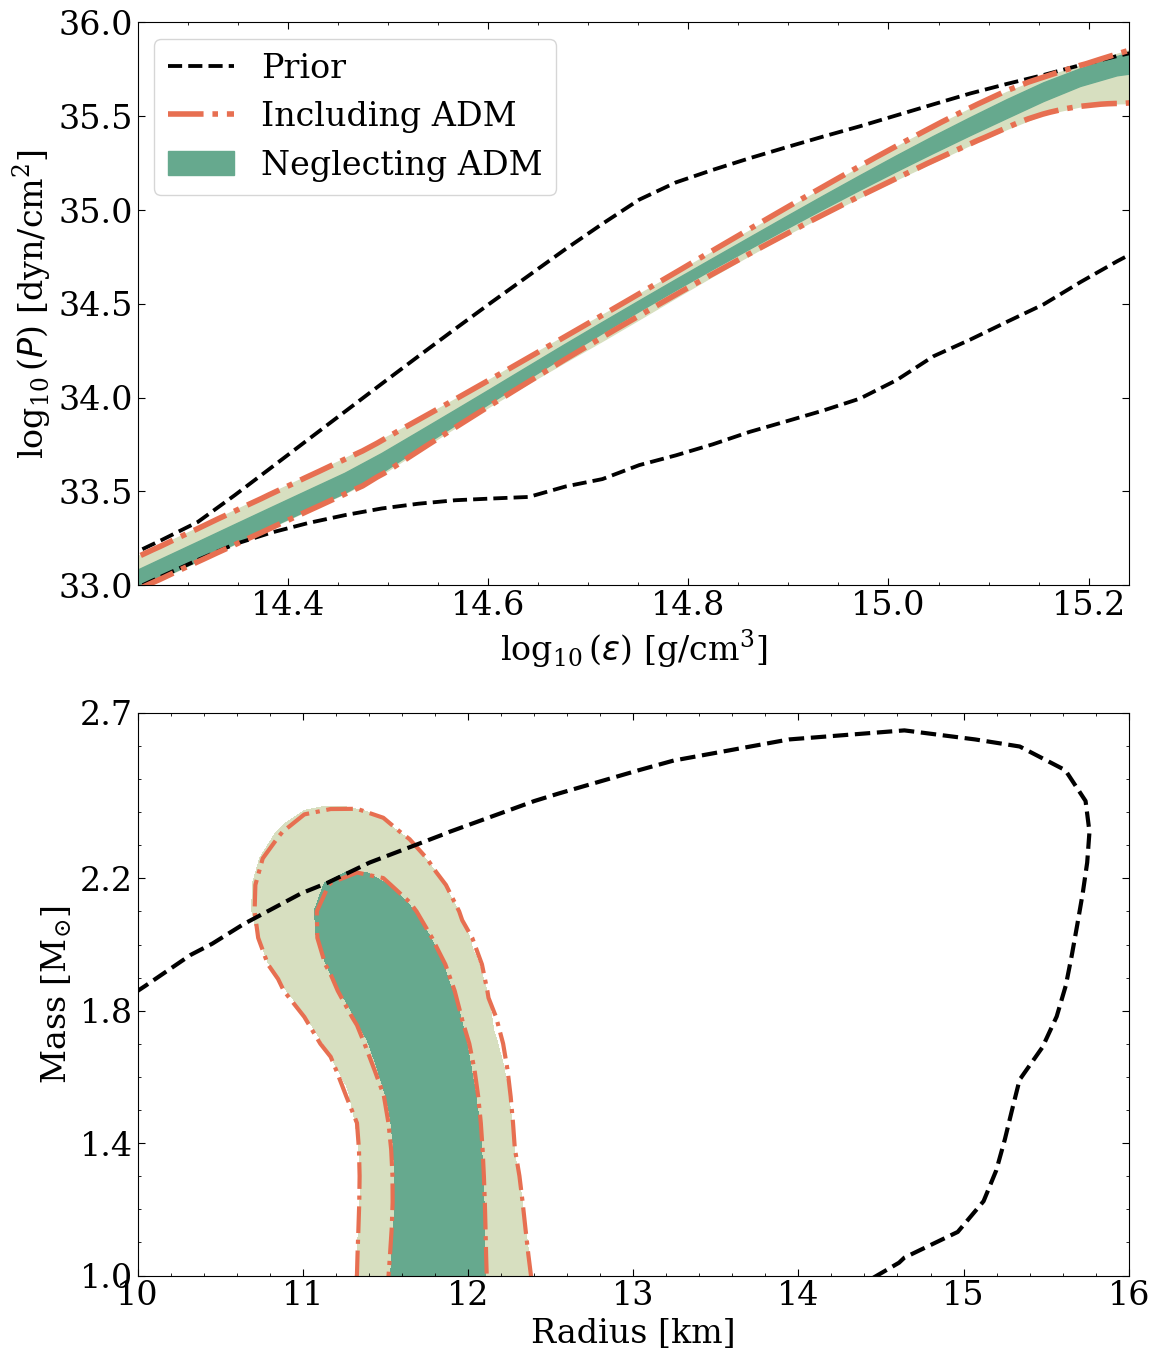
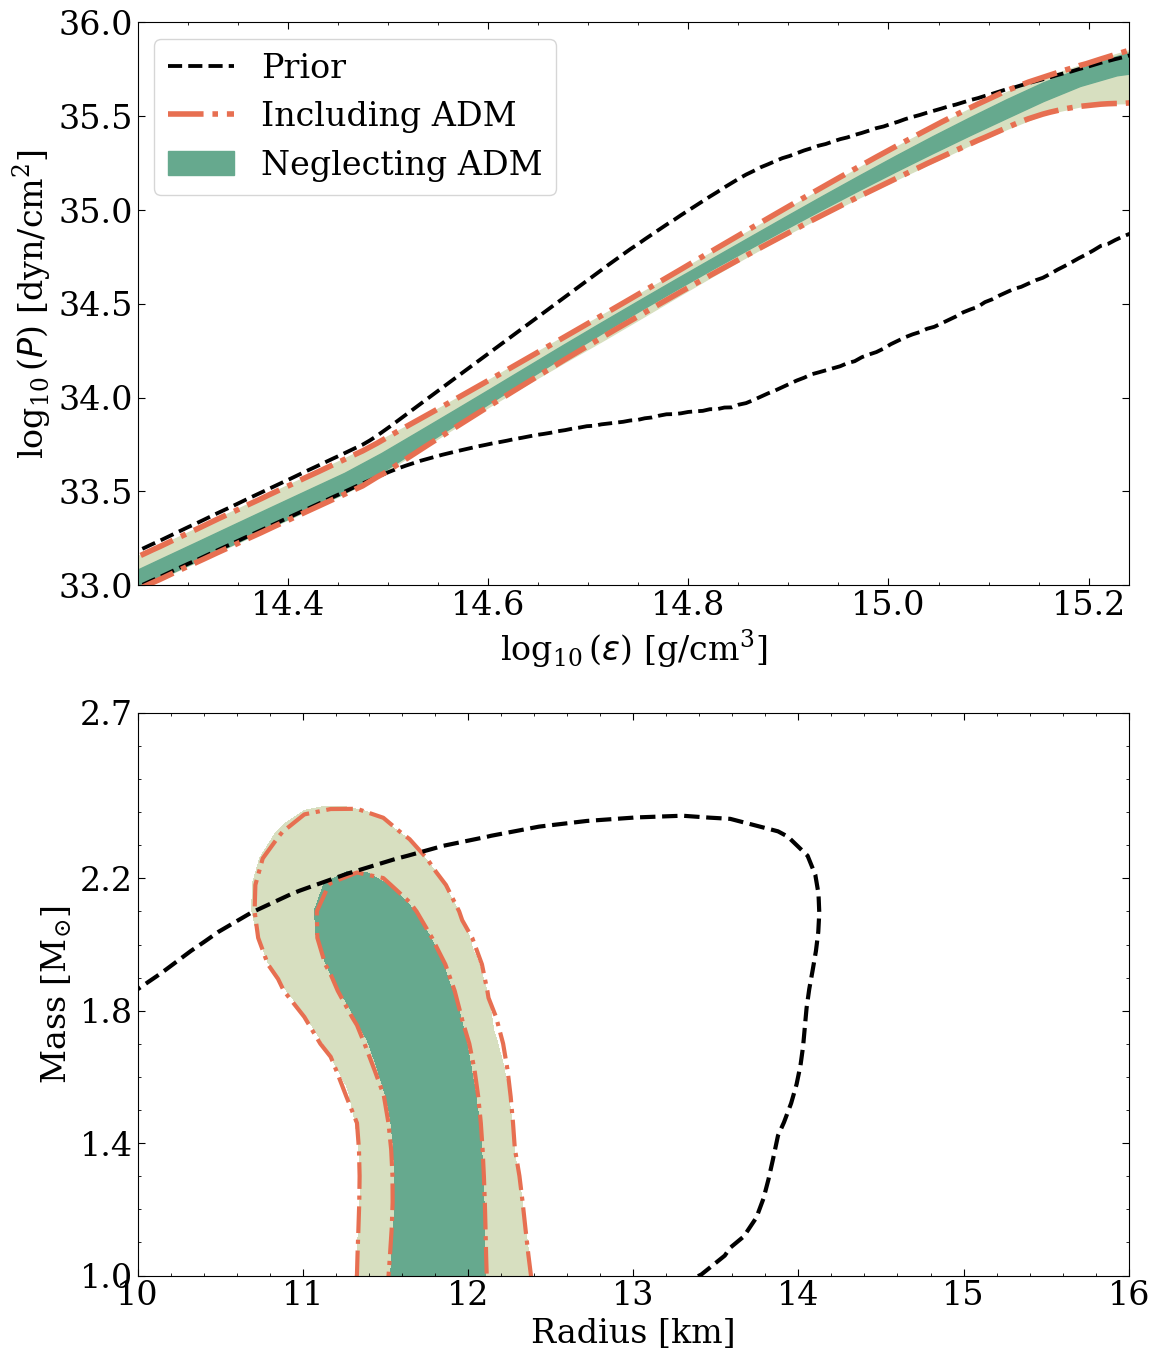
Minor fixes to Figs 4-6. Still need to make the width calc.

diff --git a/plot_routines/Figure_4.py b/plot_routines/Figure_4.py
@@ -104,7 +104,7 @@ def calc_bands(x, y):
     return miny, maxy
 
 
-def get_quantiles(array, quantiles=[0.05, 0.5, 0.95]): #0.05,0.5,0.95 0.32,0.5,0.68 
+def get_quantiles(array, quantiles=[0.025, 0.5, 0.975]): #0.025,0.5,0.975 0.16,0.5,0.84 
         contours = np.nanquantile(array, quantiles) #changed to nanquantile to inorder to ignore the nans that may appear
         low = contours[0]
         median = contours[1]
@@ -117,7 +117,7 @@ def get_quantiles(array, quantiles=[0.05, 0.5, 0.95]): #0.05,0.5,0.95 0.32,0.5,0
 # In[7]:
 
 
-energydensities = np.logspace(14.2, 16, 50)
+energydensities = np.logspace(14.2, 16, 250)
 if args.repro:
     pressures_prior =  np.load(prior_directory + f'{run_nameprior}' + 'pressures.npy')
     maxpres_adm_NI = np.load(including_adm_directory + f'{run_nameposterior_incladm_real}'+'maxpres.npy')
@@ -155,8 +155,8 @@ def mass_radius_posterior_plot(root_name_ADM,root_name_Baryonic,root_prior = Non
                 alpha=1., colors = '#E76F51',linestyles = '-.',linewidths = 3.)
     
 
-    ly_68adm = get_quantiles(MR_ADM[:,0], quantile = [0.32,0.5,0.64])
-    ly_95adm = get_quantiles(MR_ADM[:,0], quantile = [0.05,0.5,0.95])
+    ly_68adm = get_quantiles(MR_ADM[:,0], quantiles = [0.16,0.5,0.84])
+    ly_95adm = get_quantiles(MR_ADM[:,0], quantiles = [0.025,0.5,0.975])
     print('68% Max mass Including ADM: ',ly_68adm[2]) #upper bound only
     print('95% Max mass Including ADM: ',ly_95adm[2])
 
@@ -171,8 +171,8 @@ def mass_radius_posterior_plot(root_name_ADM,root_name_Baryonic,root_prior = Non
 
     MR_prpr_B= np.loadtxt(root_name_Baryonic + 'MR_prpr.txt')
     
-    ly_68 = get_quantiles(MR_prpr_B[:,0], quantile = [0.32,0.5,0.64])
-    ly_95 = get_quantiles(MR_prpr_B[:,0], quantile = [0.05,0.5,0.95])
+    ly_68 = get_quantiles(MR_prpr_B[:,0], quantiles = [0.16,0.5,0.84])
+    ly_95 = get_quantiles(MR_prpr_B[:,0], quantiles = [0.025,0.5,0.975])
     print('68% Max mass Neglecting ADM: ',ly_68[2])
     print('95% Max mass Neglecting ADM: ',ly_95[2])
 
@@ -292,43 +292,43 @@ k = 112
 # minpres_ppNI = np.log10(contours_min)
 # maxpres_ppNI = np.log10(contours_max)
 
-energydensities = minpres_adm[:,0] #could also be maxpres_adm doesn't matter which
+# energydensities = minpres_adm[:,0] #could also be maxpres_adm doesn't matter which
 
-print('energy densities evaluated: ',energydensities[j], energydensities[k])
-
-
-
-W_ADM = maxpres_ADM[:,2][j] - minpres_ADM[:,2][j]
+# print('energy densities evaluated: ',energydensities[j], energydensities[k])
 
 
-#no ADM bands need to be recomputed for energydensities = np.logspace(14.2,16,250)!! Do Monday
 
-W_noADM = maxpres_ppNI[:,2][j] - minpres_ppNI[:,2][j]
+# W_ADM = maxpres_ADM[:,2][j] - minpres_ADM[:,2][j]
 
-print('95% Confidence Including ADM: ', minpres_adm[:,2][j], maxpres_adm[:,2][j])
+
+# #no ADM bands need to be recomputed for energydensities = np.logspace(14.2,16,250)!! Do Monday
+
+# W_noADM = maxpres_ppNI[:,2][j] - minpres_ppNI[:,2][j]
+
+# print('95% Confidence Including ADM: ', minpres_adm[:,2][j], maxpres_adm[:,2][j])
       
-print('95% Confidence Neglecting ADM: ', minpres_ppNI[:,2][j],maxpres_ppNI[:,2][j])
+# print('95% Confidence Neglecting ADM: ', minpres_ppNI[:,2][j],maxpres_ppNI[:,2][j])
 
-Percent_change_ADM = ((W_ADM-W_noADM)/W_noADM)*100
+# Percent_change_ADM = ((W_ADM-W_noADM)/W_noADM)*100
 
-print('Percent diff: ', Percent_change_ADM)
-
-
-
-W_ADM = maxpres_ADM[:,2][k] - minpres_ADM[:,2][k]
+# print('Percent diff: ', Percent_change_ADM)
 
 
-#no ADM bands need to be recomputed for energydensities = np.logspace(14.2,16,250)!! Do Monday
 
-W_noADM = maxpres_ppNI[:,2][k] - minpres_ppNI[:,2][k]
+# W_ADM = maxpres_ADM[:,2][k] - minpres_ADM[:,2][k]
 
-print('95% Confidence Including ADM: ', minpres_adm[:,2][k], maxpres_adm[:,2][k])
+
+# #no ADM bands need to be recomputed for energydensities = np.logspace(14.2,16,250)!! Do Monday
+
+# W_noADM = maxpres_ppNI[:,2][k] - minpres_ppNI[:,2][k]
+
+# print('95% Confidence Including ADM: ', minpres_adm[:,2][k], maxpres_adm[:,2][k])
       
-print('95% Confidence Neglecting ADM: ', minpres_ppNI[:,2][k],maxpres_ppNI[:,2][k])
+# print('95% Confidence Neglecting ADM: ', minpres_ppNI[:,2][k],maxpres_ppNI[:,2][k])
 
-Percent_change_ADM = ((W_ADM-W_noADM)/W_noADM)*100
+# Percent_change_ADM = ((W_ADM-W_noADM)/W_noADM)*100
 
-print('Percent diff: ', Percent_change_ADM)
+# print('Percent diff: ', Percent_change_ADM)
 
 
 

diff --git a/plot_routines/Figure_5.py b/plot_routines/Figure_5.py
@@ -146,7 +146,7 @@ for i in range(len(matrixp)):
 # In[8]:
 
 
-def get_quantiles(array, quantiles=[0.05, 0.5, 0.95]): #0.05,0.5,0.95 0.32,0.5,0.68
+def get_quantiles(array, quantiles=[0.025, 0.5, 0.975]): #0.025,0.5,0.975 0.16,0.5,0.84
         contours = np.nanquantile(array, quantiles) #changed to nanquantile to inorder to ignore the nans that may appear
         low = contours[0]
         median = contours[1]
@@ -159,14 +159,14 @@ def get_quantiles(array, quantiles=[0.05, 0.5, 0.95]): #0.05,0.5,0.95 0.32,0.5,0
 # In[9]:
 
 
-print('Priors 68% ', get_quantiles(matrixp[:,0], quantiles = [0.32,0.5,0.68]) )
+print('Priors 68% ', get_quantiles(matrixp[:,0], quantiles = [0.16,0.5,0.84]) )
 print('Priors 95% ', get_quantiles(matrixp[:,0]) )
 
 
 # In[10]:
 
 
-print('Posteriors ADM Core Model 68% ', get_quantiles(matrix[:,0], quantiles = [0.32,0.5,0.68]) )
+print('Posteriors ADM Core Model 68% ', get_quantiles(matrix[:,0], quantiles = [0.16,0.5,0.84]) )
 print('Posteriors ADM Core Model 95% ', get_quantiles(matrix[:,0]) )
 
 
@@ -300,7 +300,7 @@ for i in range(len(matrixp)):
 # In[17]:
 
 
-print('Posteriors No ADM Model 68% ', get_quantiles(matrix[:,0], quantiles = [0.32,0.5,0.68]) )
+print('Posteriors No ADM Model 68% ', get_quantiles(matrix[:,0], quantiles = [0.16,0.5,0.84]) )
 print('Posteriors No ADM Model 95% ', get_quantiles(matrix[:,0]) )
 
 

diff --git a/plot_routines/Figure_6.py b/plot_routines/Figure_6.py
@@ -106,7 +106,7 @@ def calc_bands(x, y):
     return miny, maxy
 
 
-def get_quantiles(array, quantiles=[0.05, 0.5, 0.95]): #0.05,0.5,0.95 0.32,0.5,0.68
+def get_quantiles(array, quantiles=[0.025, 0.5, 0.975]): #0.025,0.5,0.975 0.16,0.5,0.84
         contours = np.nanquantile(array, quantiles) #changed to nanquantile to inorder to ignore the nans that may appear
         low = contours[0]
         median = contours[1]
@@ -116,7 +116,7 @@ def get_quantiles(array, quantiles=[0.05, 0.5, 0.95]): #0.05,0.5,0.95 0.32,0.5,0
         return np.round(median,2),np.round(plus,2),np.round(minus,2) 
 
 
-energydensities = np.logspace(14.2, 16, 50)
+energydensities = np.logspace(14.2, 16, 250)
 
 if args.repro:
     pressures_prior =  np.load(prior_directory + f'{run_nameprior}' + 'pressures.npy')
@@ -278,7 +278,7 @@ neglecting_admcore_directory = f'{parent}/results/posterior/Future-X/ADM_Model/F
 # In[13]:
 
 
-energydensities = np.logspace(14.2, 16, 50)
+energydensities = np.logspace(14.2, 16, 250)
 
 if args.repro:
     pressures_prior =  np.load(prior_directory + f'{run_nameprior}' + 'pressures.npy')
